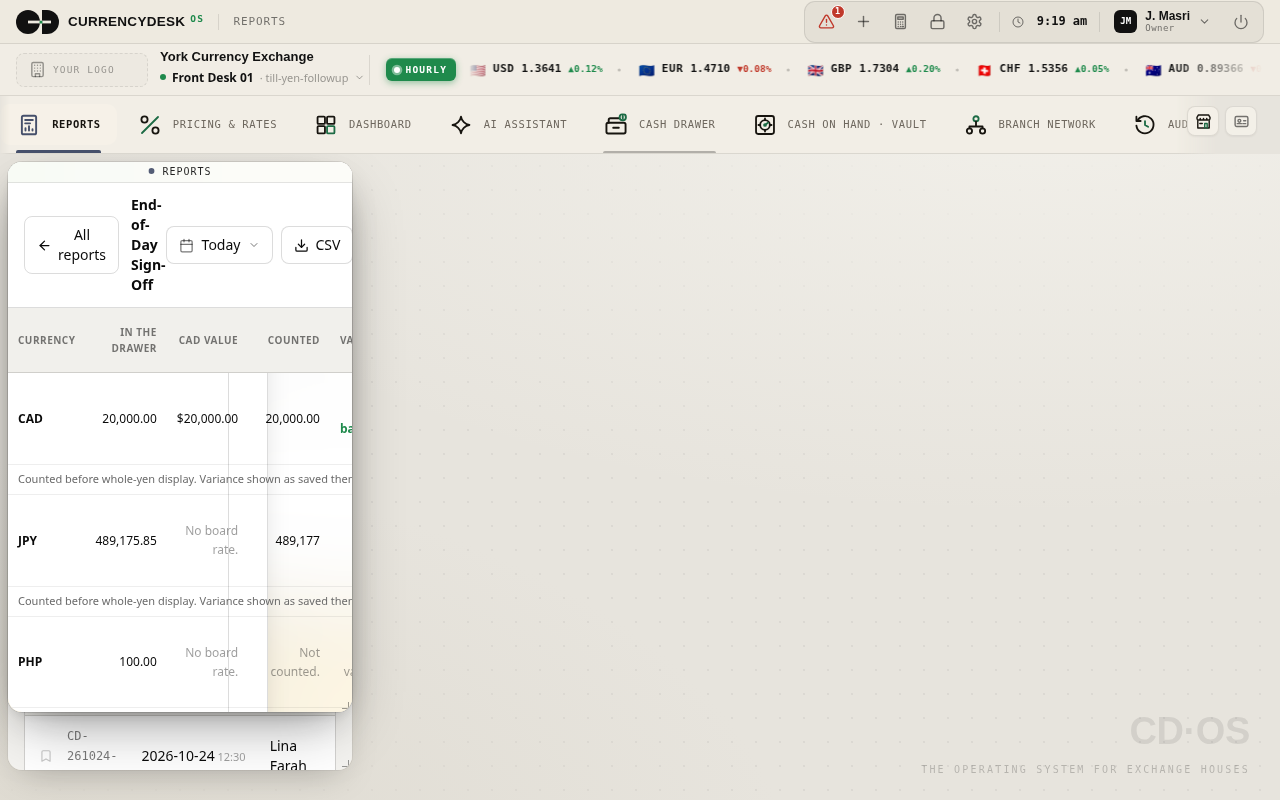
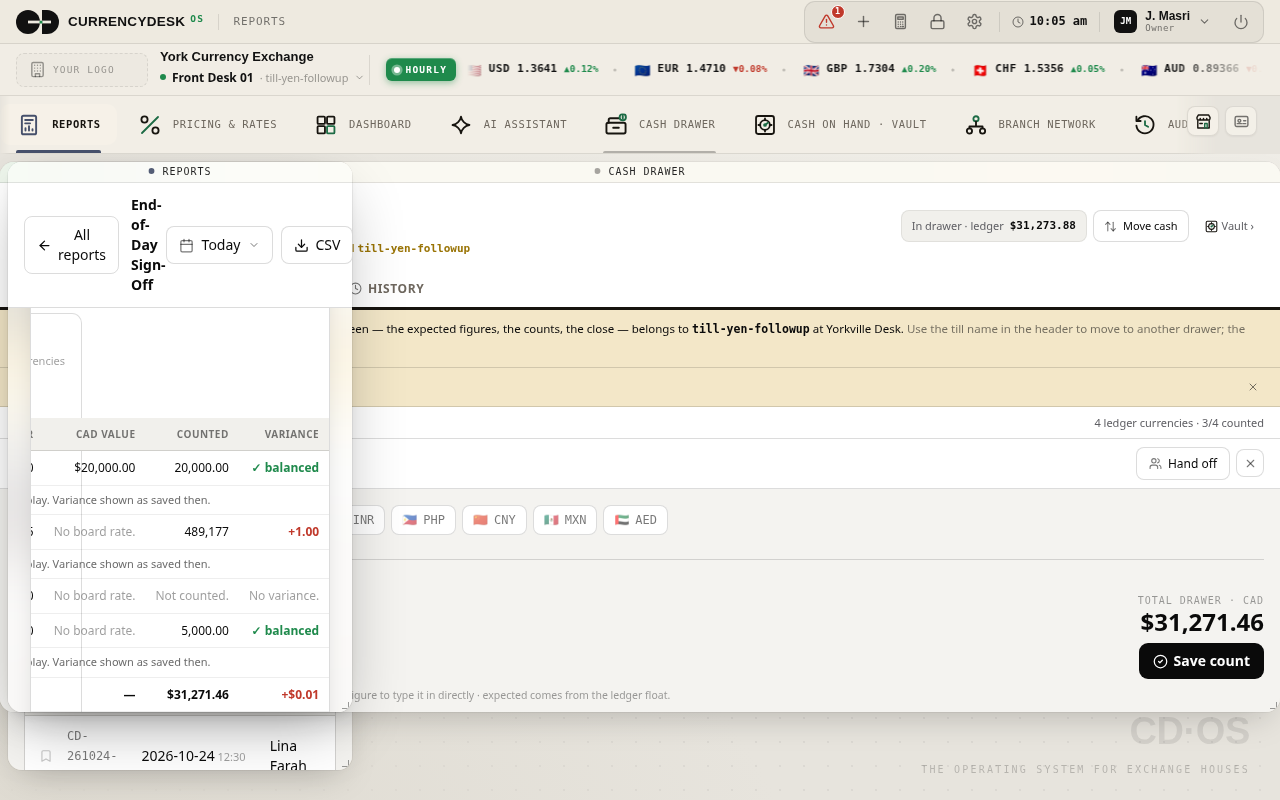
fix: fill the desk with the till and scroll a narrow report
The desktop till window now uses the full desk width, and the status
line wraps. Report tables stay as wide as their columns and the sheet
scrolls sideways, so Variance is not cut off.

diff --git a/tests/e2e/yen-followup.spec.ts b/tests/e2e/yen-followup.spec.ts
@@ -158,6 +158,35 @@ function noDash(text: string) {
   expect(text).not.toContain("\u2013");
 }
 
+/* A clipped column still has its full text in the DOM. The table
+   either fits its own box, or it is the sideways scroller. */
+async function assertNoClip(page: Page) {
+  const table = page.locator("#cdos-report-doc table").filter({ hasText: "Variance" }).first();
+  await expect(table).toBeVisible();
+  const ok = await table.evaluate((el) => {
+    const style = getComputedStyle(el);
+    const tableOk = el.scrollWidth <= el.clientWidth || style.overflowX === "auto";
+    const head = Array.from(el.querySelectorAll("th")).find((th) => (th.textContent || "").trim() === "Variance");
+    if (!head) return false;
+    const headOk = head.scrollWidth <= head.clientWidth;
+    let scroller: HTMLElement | null = el.parentElement;
+    let canReach = false;
+    const headRight = head.getBoundingClientRect().right;
+    while (scroller) {
+      const scroll = getComputedStyle(scroller).overflowX;
+      if (scroll === "auto" || scroll === "scroll") {
+        const box = scroller.getBoundingClientRect();
+        canReach = headRight <= box.left + scroller.scrollWidth + 1;
+        break;
+      }
+      if (scroll === "hidden" || scroll === "clip") return false;
+      scroller = scroller.parentElement;
+    }
+    return tableOk && headOk && canReach;
+  });
+  expect(ok).toBe(true);
+}
+
 async function sheetCell(page: Page, ccy: string, header: string) {
   const table = page.locator("table").filter({ hasText: "In the drawer" });
   const headers = await table.locator("thead th").evaluateAll((ths) =>
@@ -267,6 +296,15 @@ test("the 1280 Counted column keeps each currency's places", async ({ page }, te
   for (const width of [360, 390, 430, 1280]) {
     await page.setViewportSize({ width, height: width >= 1280 ? 800 : 844 });
     await page.locator("[data-tour='till']").scrollIntoViewIfNeeded();
+    const bannerFits = await page.locator(".till-statusline").first().evaluate((el) => el.scrollWidth <= el.clientWidth);
+    expect(bannerFits).toBe(true);
+    const panelWide = await page.evaluate(() => {
+      const desk = document.getElementById("desktop");
+      const win = document.querySelector(".win:has(.till-screen)");
+      if (!desk || !win) return false;
+      return Math.abs(win.getBoundingClientRect().width - desk.getBoundingClientRect().width) <= 1;
+    });
+    expect(panelWide).toBe(true);
     const tillName = `till_${width}.png`;
     const tillShot = `${SHOTS}/${tillName}`;
     await page.screenshot({ path: tillShot });
@@ -280,6 +318,14 @@ test("the 1280 Counted column keeps each currency's places", async ({ page }, te
     await page.setViewportSize({ width, height: width >= 1280 ? 800 : 844 });
     const table = page.locator("table").filter({ hasText: "In the drawer" });
     await table.scrollIntoViewIfNeeded();
+    await assertNoClip(page);
+    const varianceHead = table.locator("th", { hasText: "Variance" });
+    await varianceHead.evaluate((el) => el.scrollIntoView({ inline: "end", block: "nearest" }));
+    const varianceOnScreen = await varianceHead.evaluate((el) => {
+      const r = el.getBoundingClientRect();
+      return r.width > 8 && r.left >= -1 && r.right <= window.innerWidth + 1 && el.scrollWidth <= el.clientWidth + 1;
+    });
+    expect(varianceOnScreen).toBe(true);
     const eodName = `eod_counted_${width}.png`;
     const eodShot = `${SHOTS}/${eodName}`;
     await page.screenshot({ path: eodShot });

diff --git a/os-src/york-os.css b/os-src/york-os.css
@@ -1719,9 +1719,31 @@ html[data-cdtheme="dark"] .cdos-tour-next:hover { background: #fff; }
    window title bar. That bar is hidden on a phone, so the record
    shows its own control. Hidden here so a wide window is unchanged. */
 .phone-tx-back { display: none; }
-/* These wrappers exist so a phone can restack the drawer header.
+/* The tab wrapper exists so a phone can restack the drawer header.
    contents keeps the desktop flex items where they already were. */
-.till-statusline, .till-tabwrap { display: contents; }
+.till-tabwrap { display: contents; }
+/* The status line takes the width of the header and wraps. It used
+   to be display:contents, so a long session sat on one line and the
+   window cut it off. */
+.till-id { flex: 1 1 auto; min-width: 0; }
+.till-statusline {
+  display: flex;
+  flex-wrap: wrap;
+  align-items: baseline;
+  column-gap: 0.35em;
+  row-gap: 2px;
+  flex: 1 1 100%;
+  width: 100%;
+  min-width: 0;
+  max-width: 100%;
+  white-space: normal;
+}
+.till-statusline > span {
+  min-width: 0;
+  max-width: 100%;
+  white-space: normal;
+  overflow-wrap: anywhere;
+}
 /* The status used to open with this dot, in the same text as
    "Session". It is a generated mark so a phone can drop it: on a
    phone the till name is already on the line above. */
@@ -1750,6 +1772,15 @@ html[data-cdtheme="dark"] .cdos-tour-next:hover { background: #fff; }
 .till-operator { position: static; }
 #desktop .win:has(.till-screen) > .win-body {
   min-width: 0;
+}
+/* On a desktop the till is a panel across the desk, not a 900px
+   card floating in the middle. A phone already fills the desk. */
+@media (min-width: 431px) {
+  #desktop .win:has(.till-screen) {
+    left: 0 !important;
+    width: 100% !important;
+    max-width: none !important;
+  }
 }
 .till-screen {
   width: 100%;
@@ -2000,6 +2031,26 @@ html[data-cdtheme="dark"] .cdos-tour-next:hover { background: #fff; }
 /* The sign-off table is wider than a phone card, and this row used to
    scroll away with it. Stick the sentence to the visible left edge and
    wrap it inside the card. The stored figure stays one line. */
+/* Every report in this document shares these tables. A narrow
+   window used to squeeze Variance until the words were cut. The
+   table stays as wide as its columns, so a cell is not clipped
+   inside the table, and the document scrolls sideways to reach it. */
+#cdos-report-doc {
+  overflow-x: auto;
+  max-width: min(820px, 100%);
+}
+#cdos-report-doc table {
+  width: max-content;
+  min-width: 100%;
+  max-width: none;
+  overflow-x: auto;
+}
+#cdos-report-doc :is(th, td) { white-space: nowrap; }
+#cdos-report-doc tr.till-stored-row > td,
+#cdos-report-doc .till-stored-line {
+  white-space: normal !important;
+}
+
 @media (max-width: 430px) {
   .report-scroll { container-type: inline-size; }
   .till-stored-line {

diff --git a/docs/PROJECT_STATE.md b/docs/PROJECT_STATE.md
@@ -72,7 +72,7 @@ Full map, routes and build commands: `docs/REPOSITORY_MAP.md`.
 
 ## Current active work
 
-- **The till banner counts the till, and the clocks are the desk's.** Three currencies counted on one till read "1 till counted". A till with no session says "Session not opened" and "Nobody is on this till. No session is open." Showing the float says "Show the expected amount." Hiding it says "Hide expected. Keep the count blind." The end-of-day empty cell says "Not in this till." A missing variance says "No variance." A missing safe balance says "Not in the safe." The close review says "Not counted." and keeps CAD cents. Session, shift, and closed-by stamps use the desk 12-hour clock in the branch zone, so 20:30 UTC at a Toronto till reads 4:30 pm. The Counted column keeps the currency's places: 20,000.00 CAD, 5,000.00 USD, and 489,177 JPY. KWD, BHD, OMR, JOD, IQD, LYD, and TND show three places on the screen. The ledger still stores two.
+- **The till banner counts the till, and the clocks are the desk's.** Three currencies counted on one till read "1 till counted". A till with no session says "Session not opened" and "Nobody is on this till. No session is open." Showing the float says "Show the expected amount." Hiding it says "Hide expected. Keep the count blind." The end-of-day empty cell says "Not in this till." A missing variance says "No variance." A missing safe balance says "Not in the safe." The close review says "Not counted." and keeps CAD cents. Session, shift, and closed-by stamps use the desk 12-hour clock in the branch zone, so 20:30 UTC at a Toronto till reads 4:30 pm. On a desktop the till window fills the desk, and the status line wraps instead of being cut off. A narrow report scrolls sideways so the Variance column stays whole. The Counted column keeps the currency's places: 20,000.00 CAD, 5,000.00 USD, and 489,177 JPY. KWD, BHD, OMR, JOD, IQD, LYD, and TND show three places on the screen. The ledger still stores two.
 
 - **Posting a quote returns the quote connection before the deal checks one out.** The quote check commits first. The deal is still its own serializable transaction: frozen terms, the idempotency row, and the journal commit together, and a replay of that post returns the same deal. The quote connection is back in the pool before that transaction starts, so a full pool of posts no longer waits forever for a second connection. A single post after that burst gets a connection.
 
